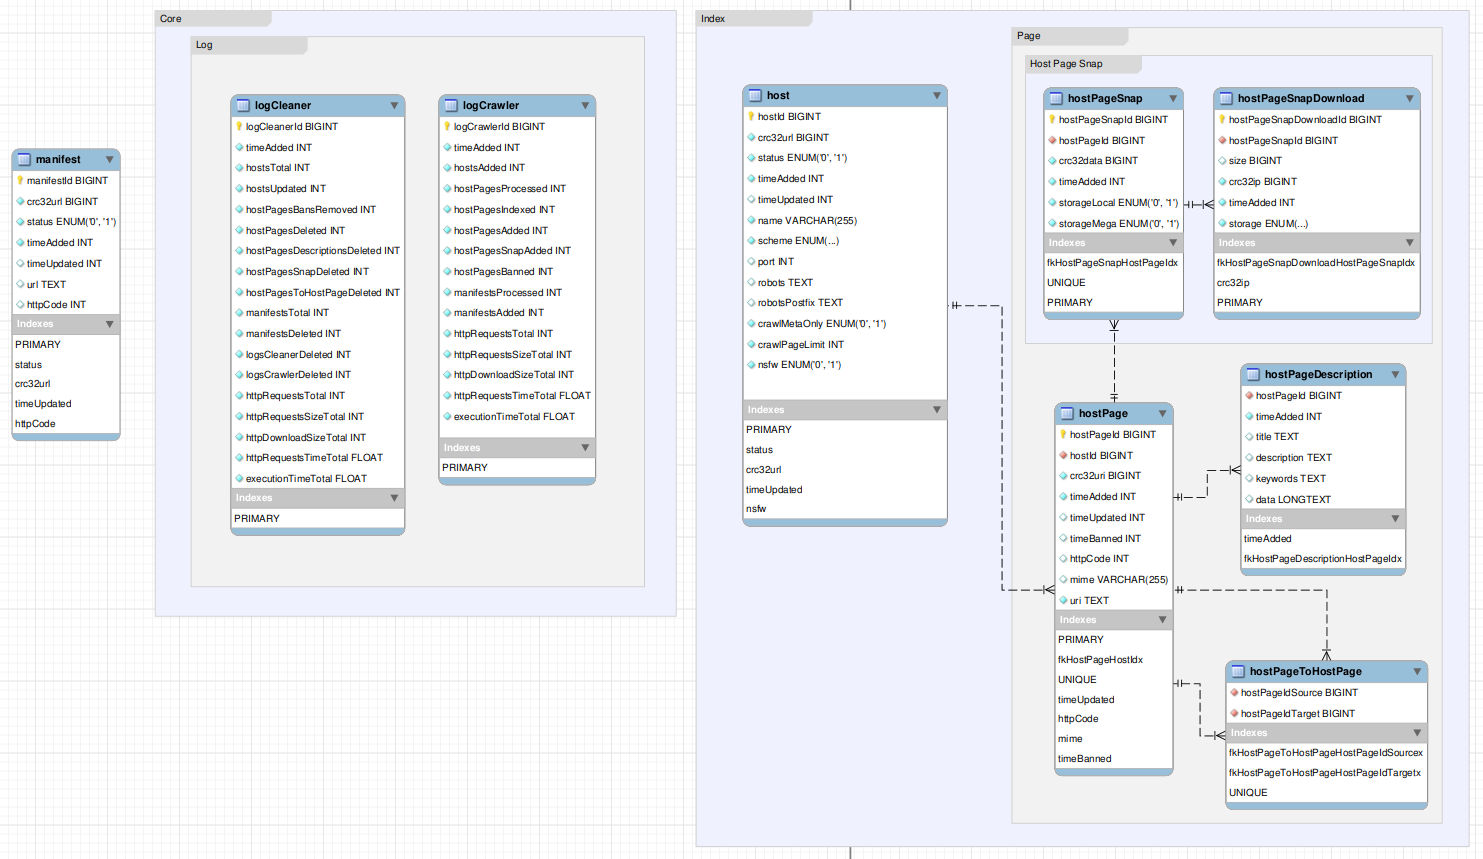
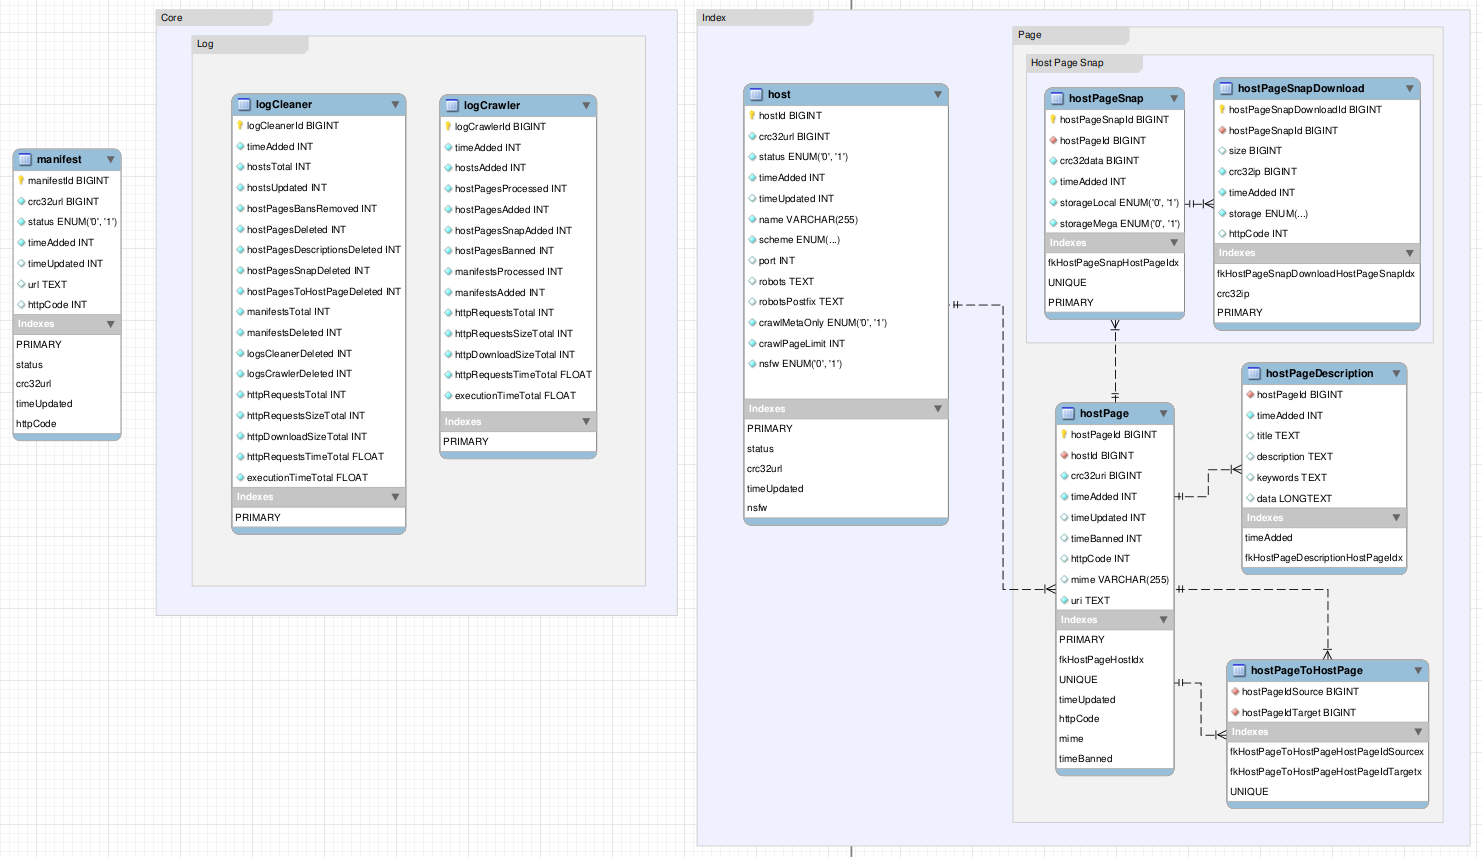
add httpCode column to hostPageSnapDownload table

diff --git a/public/file.php b/public/file.php
@@ -78,7 +78,7 @@ switch ($type) {
 
         $snapSize = (int) @filesize('../storage/snap/' . $snapFile);
 
-        $db->updateHostPageSnapDownload($hostPageSnapDownloadId, 'local', $snapSize);
+        $db->updateHostPageSnapDownload($hostPageSnapDownloadId, 'local', $snapSize, 200);
 
         header('Content-Type: application/zip');
         header(sprintf('Content-Length: %s', $snapSize));
@@ -96,7 +96,7 @@ switch ($type) {
 
           if ($snapSize = $ftp->size($snapFile)) {
 
-            $db->updateHostPageSnapDownload($hostPageSnapDownloadId, 'mega', $snapSize);
+            $db->updateHostPageSnapDownload($hostPageSnapDownloadId, 'mega', $snapSize, 200);
 
             header('Content-Type: application/zip');
             header(sprintf('Content-Length: %s', $snapSize));
@@ -108,7 +108,7 @@ switch ($type) {
 
           } else {
 
-            $db->updateHostPageSnapDownload($hostPageSnapDownloadId, 'mega', $snapSize);
+            $db->updateHostPageSnapDownload($hostPageSnapDownloadId, 'mega', $snapSize, 404);
 
             header('HTTP/1.0 404 Not Found');
 
@@ -117,7 +117,7 @@ switch ($type) {
 
         } else {
 
-          $db->updateHostPageSnapDownload($hostPageSnapDownloadId, 'mega', $snapSize);
+          $db->updateHostPageSnapDownload($hostPageSnapDownloadId, 'mega', $snapSize, 404);
 
           header('HTTP/1.0 404 Not Found');
 
@@ -127,7 +127,7 @@ switch ($type) {
       // Return 404 when file not found
       } else {
 
-        $db->updateHostPageSnapDownload($hostPageSnapDownloadId, 'other', $snapSize);
+        $db->updateHostPageSnapDownload($hostPageSnapDownloadId, 'other', $snapSize, 404);
 
         header('HTTP/1.0 404 Not Found');
 

diff --git a/library/mysql.php b/library/mysql.php
@@ -456,11 +456,11 @@ class MySQL {
     return $this->_db->lastInsertId();
   }
 
-  public function updateHostPageSnapDownload(int $hostPageSnapDownloadId, string $storage, int $size) {
+  public function updateHostPageSnapDownload(int $hostPageSnapDownloadId, string $storage, int $size, mixed $httpCode = NULL) {
 
-    $query = $this->_db->prepare('UPDATE `hostPageSnapDownload` SET `storage` = ?, `size` = ? WHERE `hostPageSnapDownloadId` = ? LIMIT 1');
+    $query = $this->_db->prepare('UPDATE `hostPageSnapDownload` SET `storage` = ?, `size` = ?, `httpCode` = ? WHERE `hostPageSnapDownloadId` = ? LIMIT 1');
 
-    $query->execute([$storage, $size, $hostPageSnapDownloadId]);
+    $query->execute([$storage, $size, $httpCode, $hostPageSnapDownloadId]);
 
     return $query->rowCount();
   }
